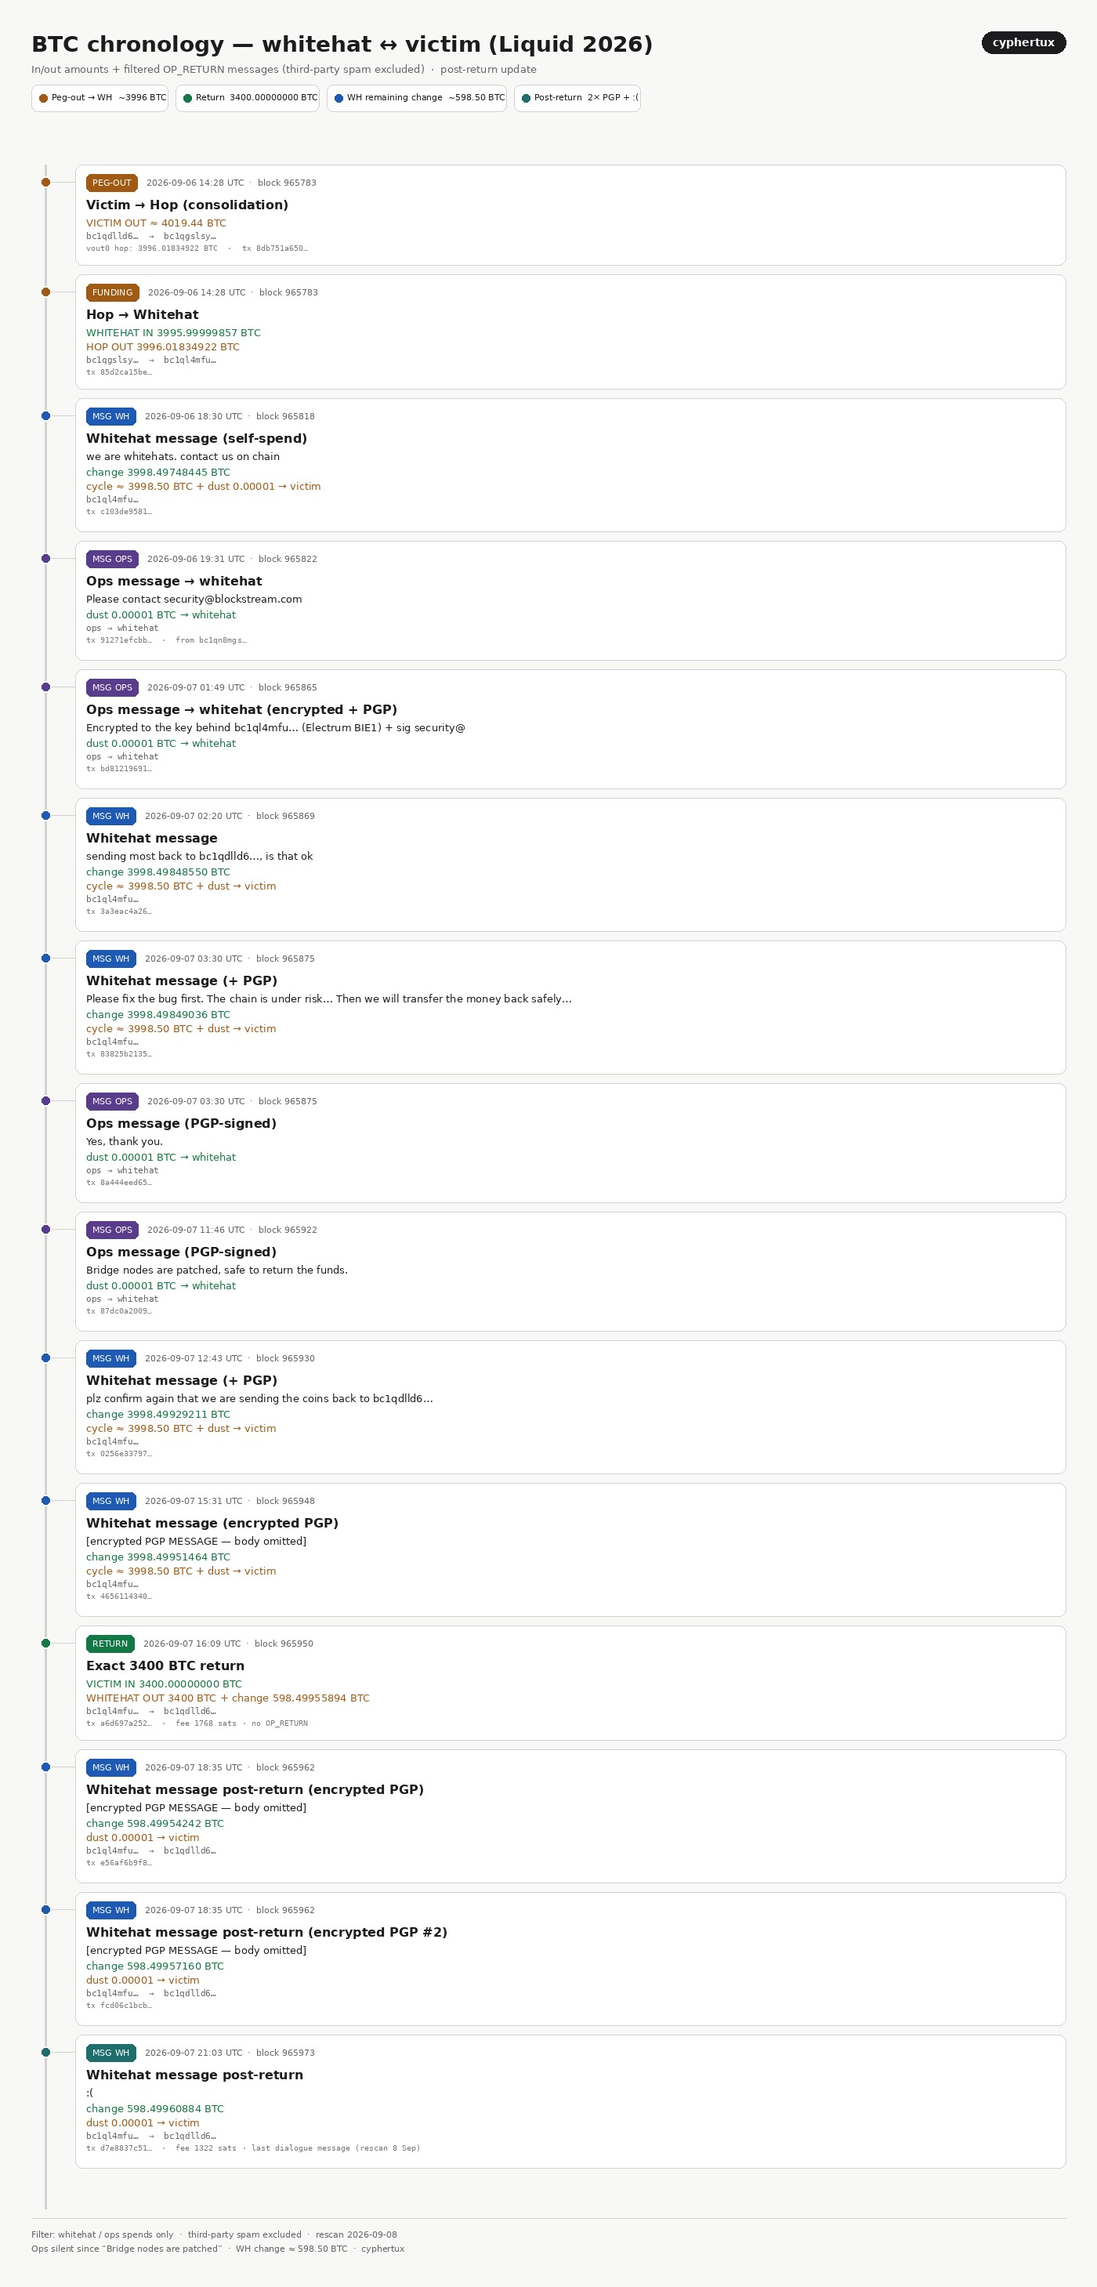
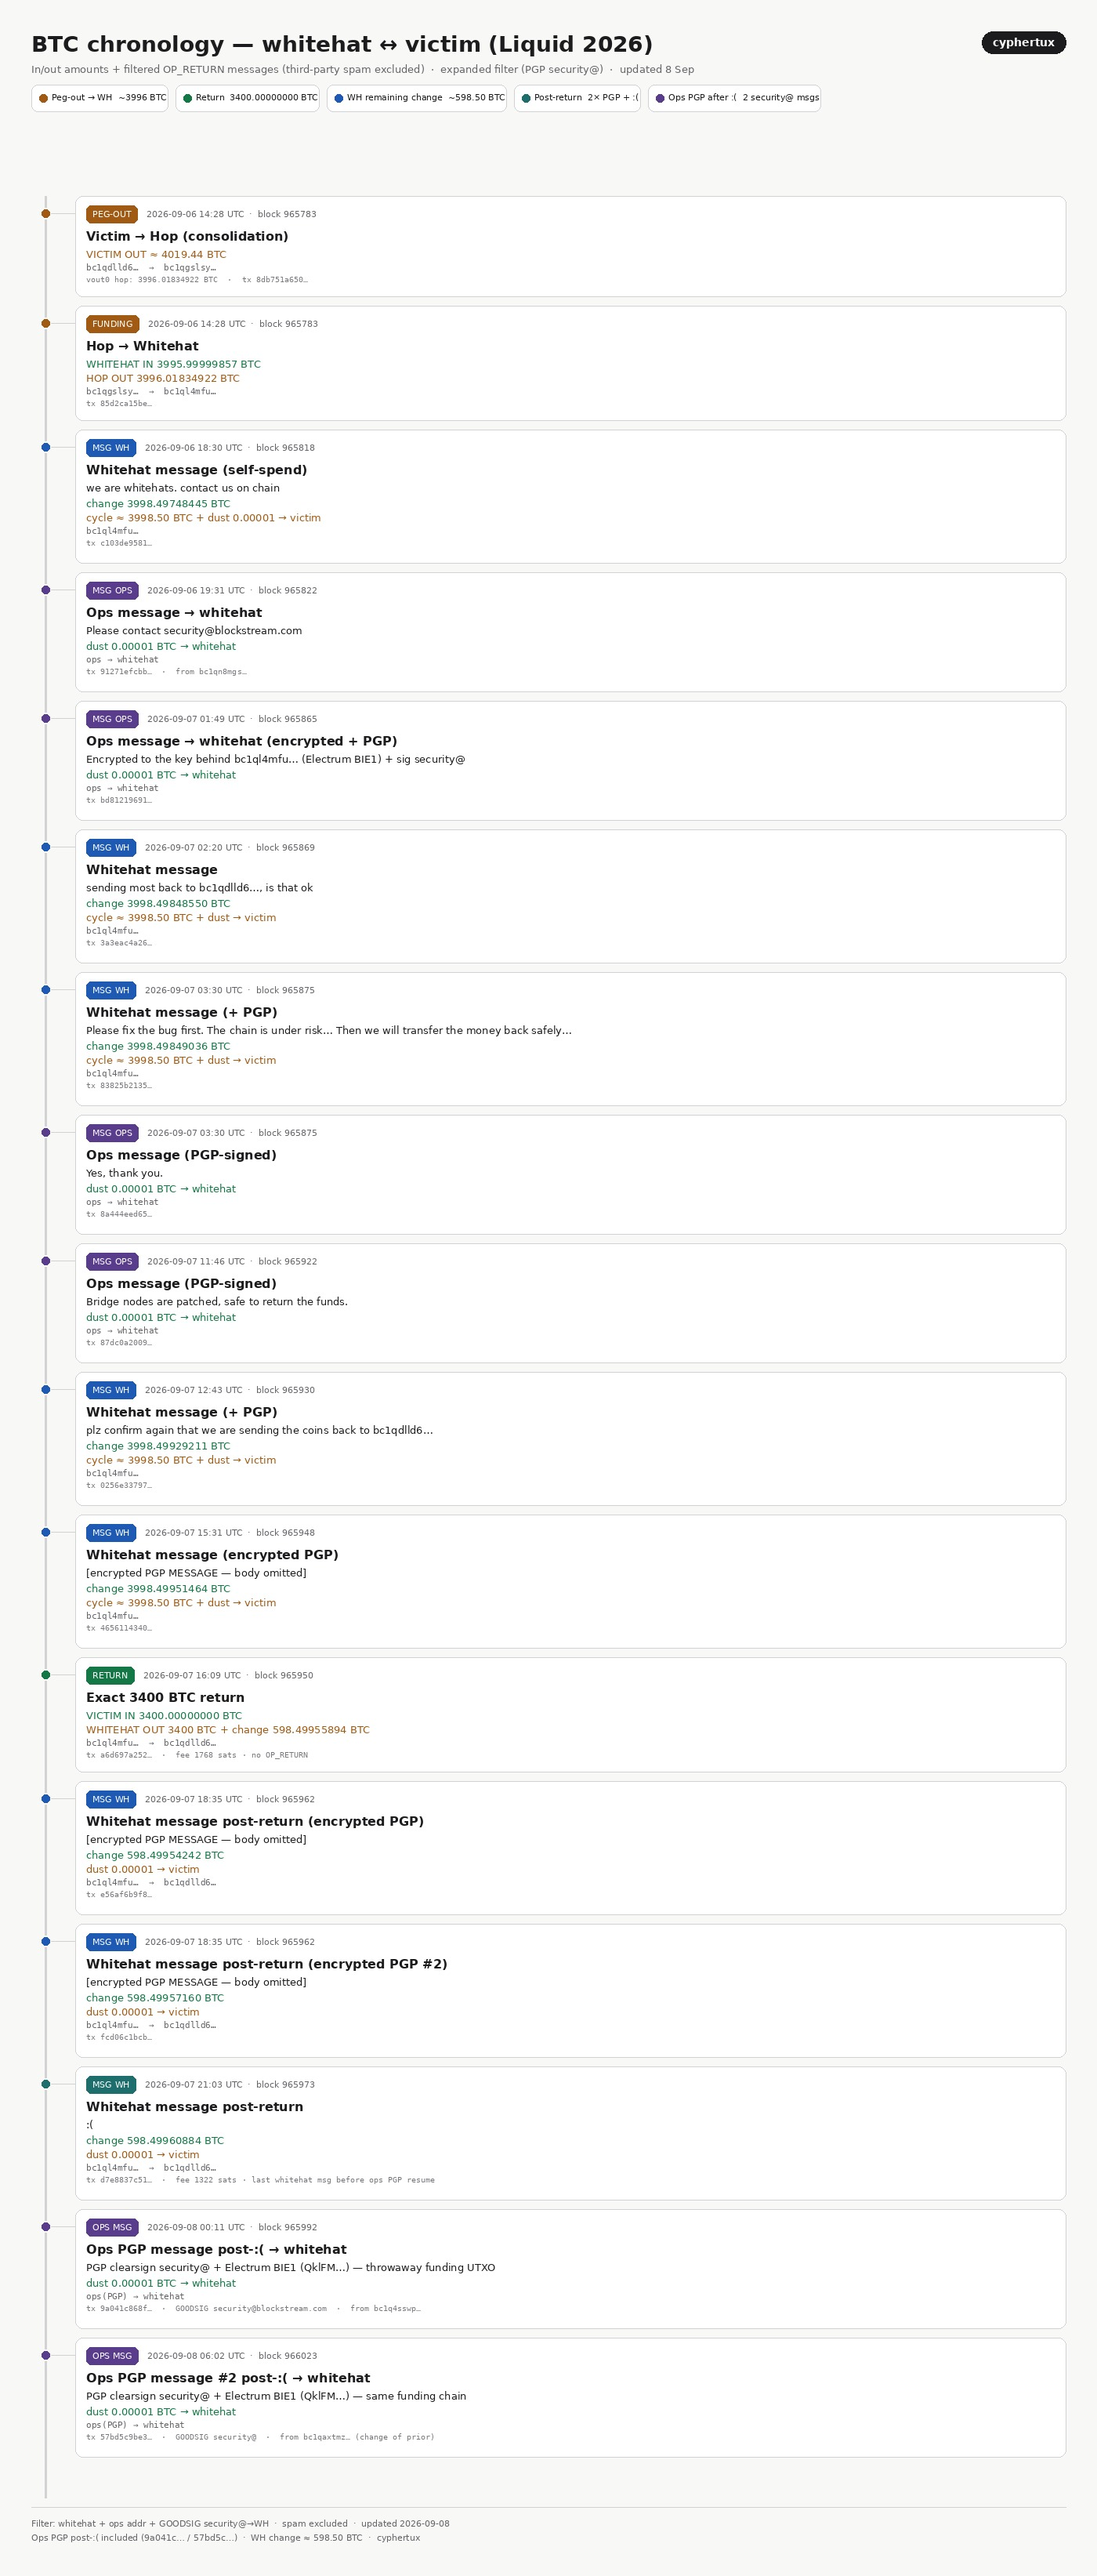
docs: extend BTC chronology with post-:( ops PGP messages Reclassify 9a041c86/57bd5c9b via security@ GOODSIG; refresh FR/EN images and filter.

Changed region(s): [[0.0307, 0.0, 0.5836, 0.9979], [0.8907, 0.0, 0.9829, 0.0312]]

diff --git a/final/data/btc_3400_opreturn/CHRONOLOGY.md b/final/data/btc_3400_opreturn/CHRONOLOGY.md
@@ -9,7 +9,7 @@
 | Whitehat | [`bc1ql4mfu6aundtkksxklfajs2h3t9nzcd6gyqjlte`](https://mempool.space/address/bc1ql4mfu6aundtkksxklfajs2h3t9nzcd6gyqjlte) |
 | Hop financement | [`bc1qgslsydz56d0ed6827hdemfmk5w2f6ldyc6wt7p`](https://mempool.space/address/bc1qgslsydz56d0ed6827hdemfmk5w2f6ldyc6wt7p) |
 
-L’adresse victime **n’émet aucun OP_RETURN**. Les réponses on-chain utiles partent de l’adresse ops (`security@` / PGP signés).
+L’adresse victime **n’émet aucun OP_RETURN**. Les réponses utiles sont (a) l’adresse ops `bc1qn8mgs…`, et/ou (b) tout OP_RETURN **vers** le whitehat avec **bonne signature PGP** `security@blockstream.com` (même hors adresse ops habituelle).
 
 ## Graphe
 
@@ -23,7 +23,7 @@ flowchart LR
   V -->|"~3996 BTC peg-out"| H
   H -->|"3995.99999857 BTC"| W
   W -->|"3400 BTC return"| V
-  O -.->|"OP_RETURN replies"| W
+  O -.->|"OP_RETURN (+ PGP security@ via UTXO jetable)"| W
   W -.->|"OP_RETURN + dust"| V
 ```
 
@@ -46,6 +46,8 @@ flowchart LR
 | 13 | 2026-09-07 18:35:17 UTC | 965962 | Message whitehat | Message PGP (chiffré) post-retour | [`e56af6b9f8…`](https://mempool.space/tx/e56af6b9f889b0e7ed342508eaab2f997fafbb61d64c892bbf306a0014722596) |
 | 14 | 2026-09-07 18:35:17 UTC | 965962 | Message whitehat | Message PGP (chiffré) post-retour #2 | [`fcd06c1bcb…`](https://mempool.space/tx/fcd06c1bcb38e4c3eaf71c1137d7bdf935363ae3c14b590d5d1a501e326d2b99) |
 | 15 | 2026-09-07 21:03:23 UTC | 965973 | Message whitehat | :( | [`d7e8837c51…`](https://mempool.space/tx/d7e8837c51cc625c2c6365d371d376b035209fa01434d4933971d6428d6d6d52) |
+| 16 | 2026-09-08 00:11:40 UTC | 965992 | Message ops (PGP) | Electrum BIE1 chiffré + clearsign security@ → whitehat | [`9a041c868f…`](https://mempool.space/tx/9a041c868fc4029601e4b248f21cc786e43405e4ca7d6bdb2c339aeb0f576a9b) |
+| 17 | 2026-09-08 06:02:24 UTC | 966023 | Message ops (PGP) | Electrum BIE1 chiffré + clearsign security@ → whitehat #2 | [`57bd5c9be3…`](https://mempool.space/tx/57bd5c9be33276f6a80dc723a9ef064b09b29972b82c9684da051d110f6ef0f6) |
 
 ## Détail
 
@@ -239,11 +241,6 @@ More details about the vuln fix:
   - vout0: **598.49955894 BTC** → `bc1ql4mfu6aundtkksxklfajs2h3t9nzcd6gyqjlte`
   - vout1: **3400.00000000 BTC** → `bc1qdlld6antmv4xug242ed83q7k4rqw50cwfns38szx4qu2f4jwaxxsuhwxxr`
 
-## Filtre
-
-- **Inclus:** from whitehat · peg-out from wallet victime · OP_RETURN from adresse ops
-- **Exclus:** spam tiers / fausse demande 3900+bounty
-
 ### 13. 2026-09-07 18:35:17 UTC · bloc 965962 — Message PGP (chiffré) post-retour
 - **Type:** Message whitehat
 - **From:** `bc1ql4mfu6aundtkksxklfajs2h3t9nzcd6gyqjlte`
@@ -273,4 +270,35 @@ More details about the vuln fix:
   - vout0: OP_RETURN `:(`
   - vout1: **0.00001000 BTC** → victime
   - vout2: **598.49960884 BTC** → whitehat (change)
-- **Note:** Dernier message de dialogue au rescan 2026-09-08 ; ops toujours silencieux depuis « Bridge nodes are patched ».
+- **Note:** Dernier message **whitehat** au moment du rescan initial ; la suite dialogue ops reprend via PGP (événements 16–17).
+
+### 16. 2026-09-08 00:11:40 UTC · bloc 965992 — Message ops PGP (Electrum BIE1) post-`:(`
+- **Type:** Message ops (PGP) — **pas** émis par l’adresse whitehat
+- **From (vin):** `bc1q4sswp4a6mwa6c85w2flx7fuckran6rq5renlue` (UTXO jetable)
+- **To (dust):** `bc1ql4mfu6aundtkksxklfajs2h3t9nzcd6gyqjlte`
[1 lines of base64/hex data omitted]
+- **Attribution:** `gpg --verify` → **GOODSIG** `Blockstream Security Reporting <security@blockstream.com>`
+- **Message:** PGP SIGNED MESSAGE (SHA256) dont le corps est un ciphertext Electrum BIE1 (`QklFM…`) — clair non récupérable sans clé whitehat
+- Sorties:
+  - vout0: **0.00001000 BTC** → whitehat
+  - vout1: OP_RETURN (PGP)
+  - vout2: change → `bc1qaxtmz47pjv6qajue2p5xxssx84ug3a695g3g73`
+
+### 17. 2026-09-08 06:02:24 UTC · bloc 966023 — Message ops PGP #2
+- **Type:** Message ops (PGP)
+- **From (vin):** `bc1qaxtmz47pjv6qajue2p5xxssx84ug3a695g3g73` (change de #16)
+- **To (dust):** whitehat `bc1ql4mfu…`
[1 lines of base64/hex data omitted]
+- **Attribution:** **GOODSIG** `security@blockstream.com` (même empreinte)
+- **Message:** idem pattern PGP clearsign + `QklFM…` (payload plus long)
+- Sorties:
+  - vout0: change → `bc1qfncc9jjcxkp4w24ukz5nw2gc4x4cghz2pr6sz3`
+  - vout1: **0.00001000 BTC** → whitehat
+  - vout2: OP_RETURN (PGP)
+
+## Filtre
+
+- **Inclus:** from whitehat · peg-out from wallet victime · OP_RETURN from adresse ops `bc1qn8mgs…` · OP_RETURN **to** whitehat with **gpg GOODSIG** `security@blockstream.com` (fingerprint `1176 542D…6844 A2D6`), même si le vin n’est pas l’adresse ops habituelle
+- **Exclus:** spam tiers / memecoins / fausse demande 3900+bounty / messages sans GOODSIG security@
+- **Règle machine:** [`filter_rule.json`](filter_rule.json)
+

diff --git a/final/data/btc_3400_opreturn/README.md b/final/data/btc_3400_opreturn/README.md
@@ -30,3 +30,7 @@
 ## Chronologie
 
 Voir [`CHRONOLOGY.md`](CHRONOLOGY.md) et [`timeline.json`](timeline.json).
+
+## Filtre dialogue
+
+Voir [`filter_rule.json`](filter_rule.json) — inclut les msgs PGP `security@` post-`:(` même hors adresse ops habituelle.
